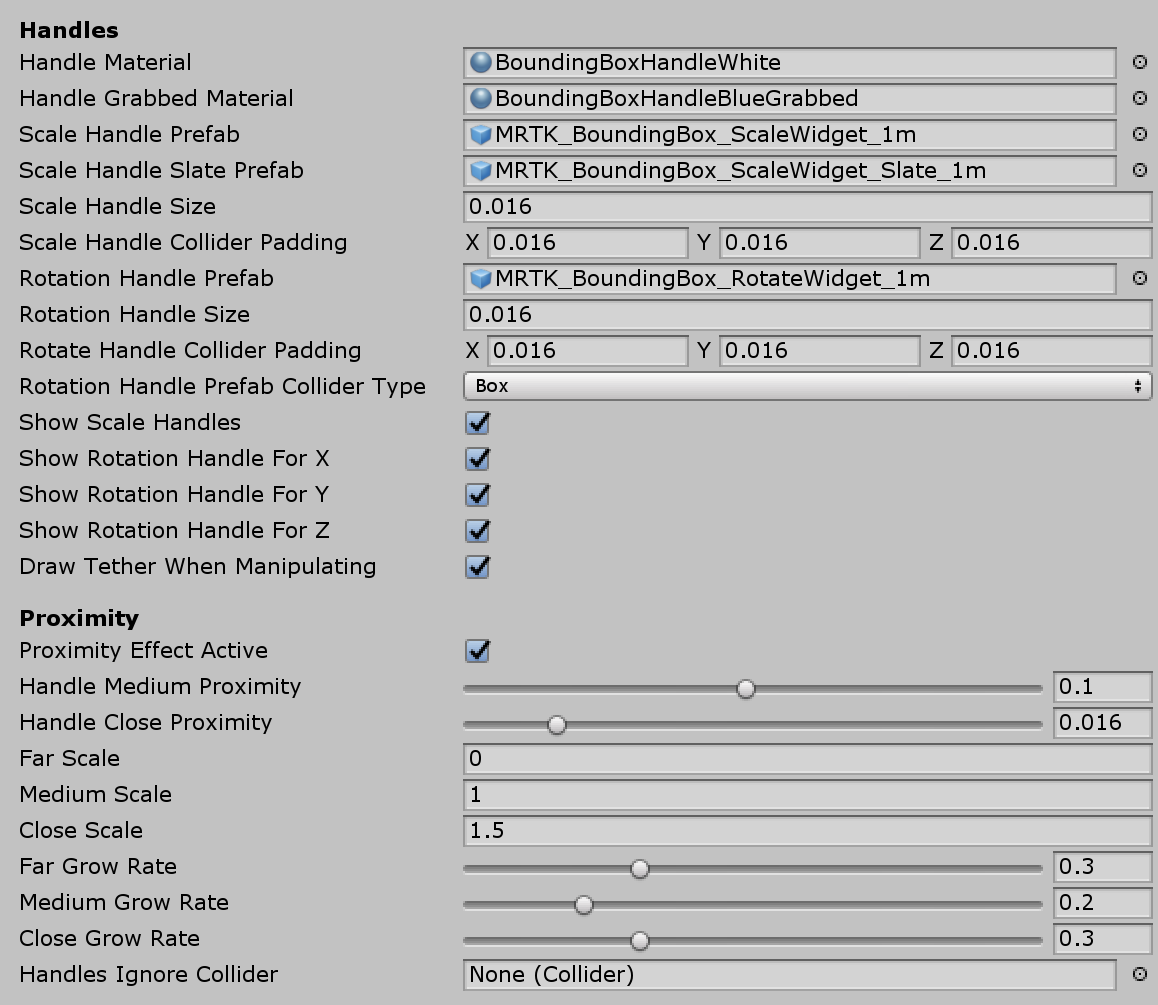
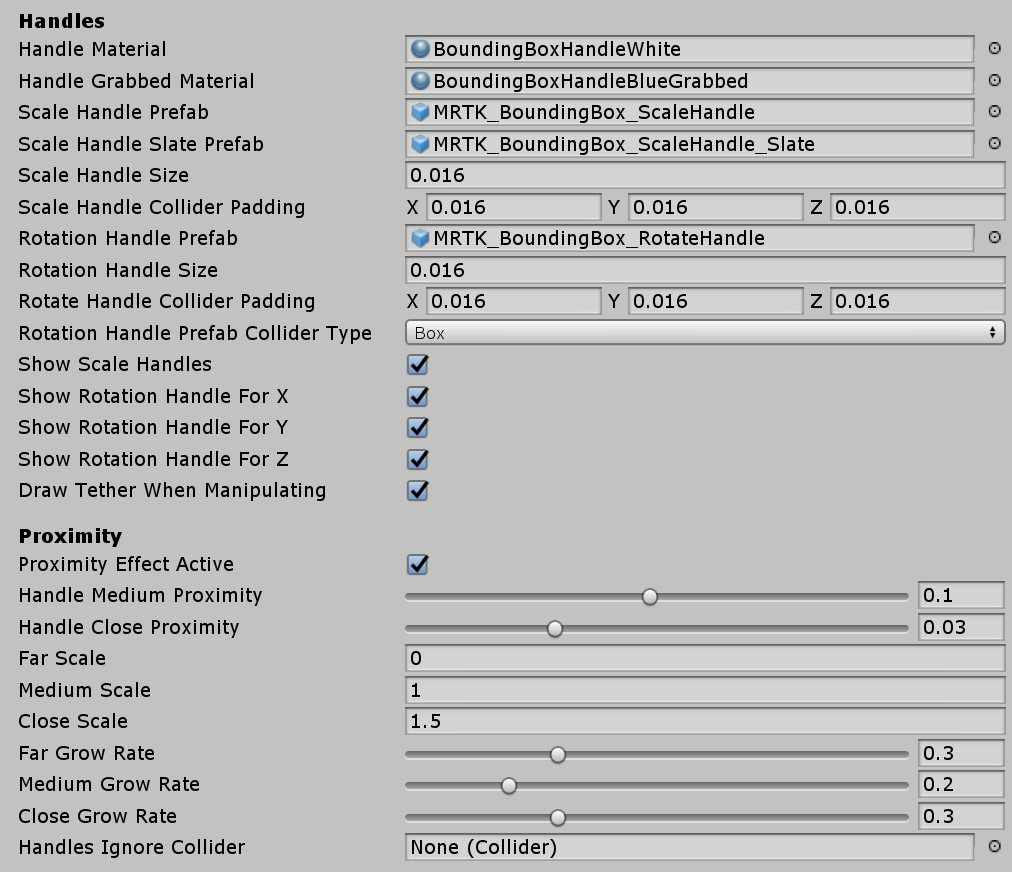
Bounding Box documentation improvement  for GA

diff --git a/Documentation/README_BoundingBox.md b/Documentation/README_BoundingBox.md
@@ -19,8 +19,6 @@ To enable a bounding box around an object, simply assign the `BoundingBox` scrip
 
 ## Inspector properties ##
 
-![Bounding Box](../Documentation/Images/BoundingBox/MRTK_BoundingBox_Structure.png)
-
 **Target Object**
 This property specifies which object will get transformed by the bounding box manipulation. If no object is set, the bounding box defaults to the owner object.
 
@@ -69,24 +67,26 @@ Below are the prefabs, materials, and the scaling values for the HoloLens 2 styl
 
 <img src="../Documentation/Images/BoundingBox/MRTK_BoundingBox_HandleStyles2.png" width="450">
 
-### Handles
+### Handles (Setup for HoloLens 2 style)
 - **Handle Material**: BoundingBoxHandleWhite
 - **Handle Grabbed Material**: BoundingBoxHandleBlueGrabbed
-- **Scale Handle Prefab**: MRTK_BoundingBox_ScaleWidget_1m
-- **Scale Handle Slate Prefab**: MRTK_BoundingBox_ScaleWidget_Slate_1m
+- **Scale Handle Prefab**: MRTK_BoundingBox_ScaleWidget
+- **Scale Handle Slate Prefab**: MRTK_BoundingBox_ScaleWidget_Slate
 - **Scale Handle Size**: 0.016 (1.6cm)
 - **Scale Handle Collider Padding**: 0.016 (makes the grabbable collider slightly bigger than handle visual)
-- **Rotation Handle Prefab**: MRTK_BoundingBox_RotateWidget_1m
+- **Rotation Handle Prefab**: MRTK_BoundingBox_RotateWidget
 - **Rotation Handle Size**: 0.016
 - **Rotation Handle Collider Padding**: 0.016 (makes the grabbable collider slightly bigger than handle visual)
 
-### Proximity
+### Proximity (Setup for HoloLens 2 style)
 Show and hide the handles with animation based on the distance to the hands. It has two-step scaling animation.
+
+<img src="../Documentation/Images/BoundingBox/MRTK_BoundingBox_Proximity.png">
 
 - **Proximity Effect Active**: Enable proximity-based handle activation 
 - **Handle Medium Proximity**: Distance for the 1st step scaling
 - **Handle Close Proximity**: Distance for the 2nd step scaling
-- **Far Scale**: Default scale value of the handle asset when the hands are out of the range of Bounding Box interaction(distance defined above by 'Handle Medium Proximity'. Use 0 to hide handle in default)
+- **Far Scale**: Default scale value of the handle asset when the hands are out of the range of Bounding Box interaction(distance defined above by 'Handle Medium Proximity'. Use 0 to hide handle by default)
 - **Medium Scale**: Scale value of the handle asset when the hands are within the range of the Bounding Box interaction(distance defined above by 'Handle Close Proximity'. Use 1 to show normal size)
 - **Close Scale**: Scale value of the handle asset when the hands are within the grab interaction(distance defined above by 'Handle Close Proximity'. Use 1.x to show bigger size)
 
